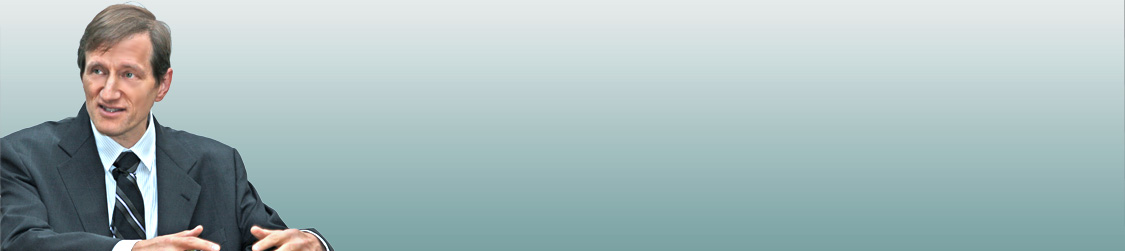
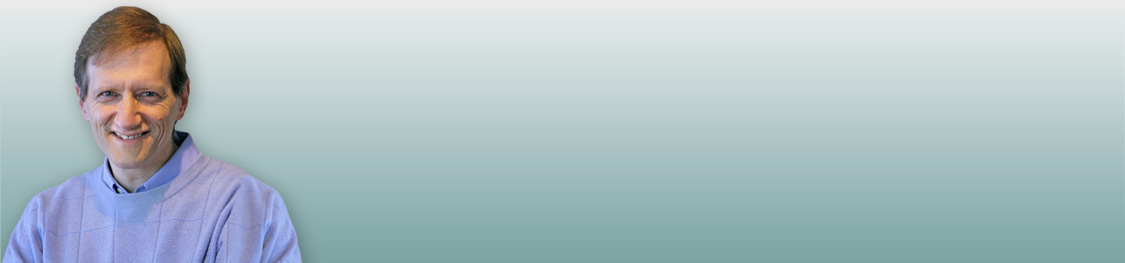
adding gary new photo

Changed region(s): [[0.0, 0.0, 0.3111, 1.0], [0.9956, 0.0, 1.0, 0.5299]]

diff --git a/sites/all/themes/custom/gking/gking.css b/sites/all/themes/custom/gking/gking.css
@@ -496,17 +496,17 @@ body.header-right-main #header-wrapper {
 #header #block-scholar_biocv-bio_blurb {
   background: url('images/front-photo.jpg') 0 0 no-repeat transparent;
   position:relative;
-  padding-top:56px;
-  padding-left: 353px;
-  padding-right: 79px;
+  padding-top:66px;
+  padding-left: 323px;
+  padding-right: 113px;
   padding-bottom: 0;
-  height: 195px;
+  height: 185px;
   margin-top: -4px;
   margin-left: 0;
   margin-bottom: 8px;
   border: none;
   float: left;
-  width: 552px;
+  width: 547px;
   font-size:1.1em;
   }
 
